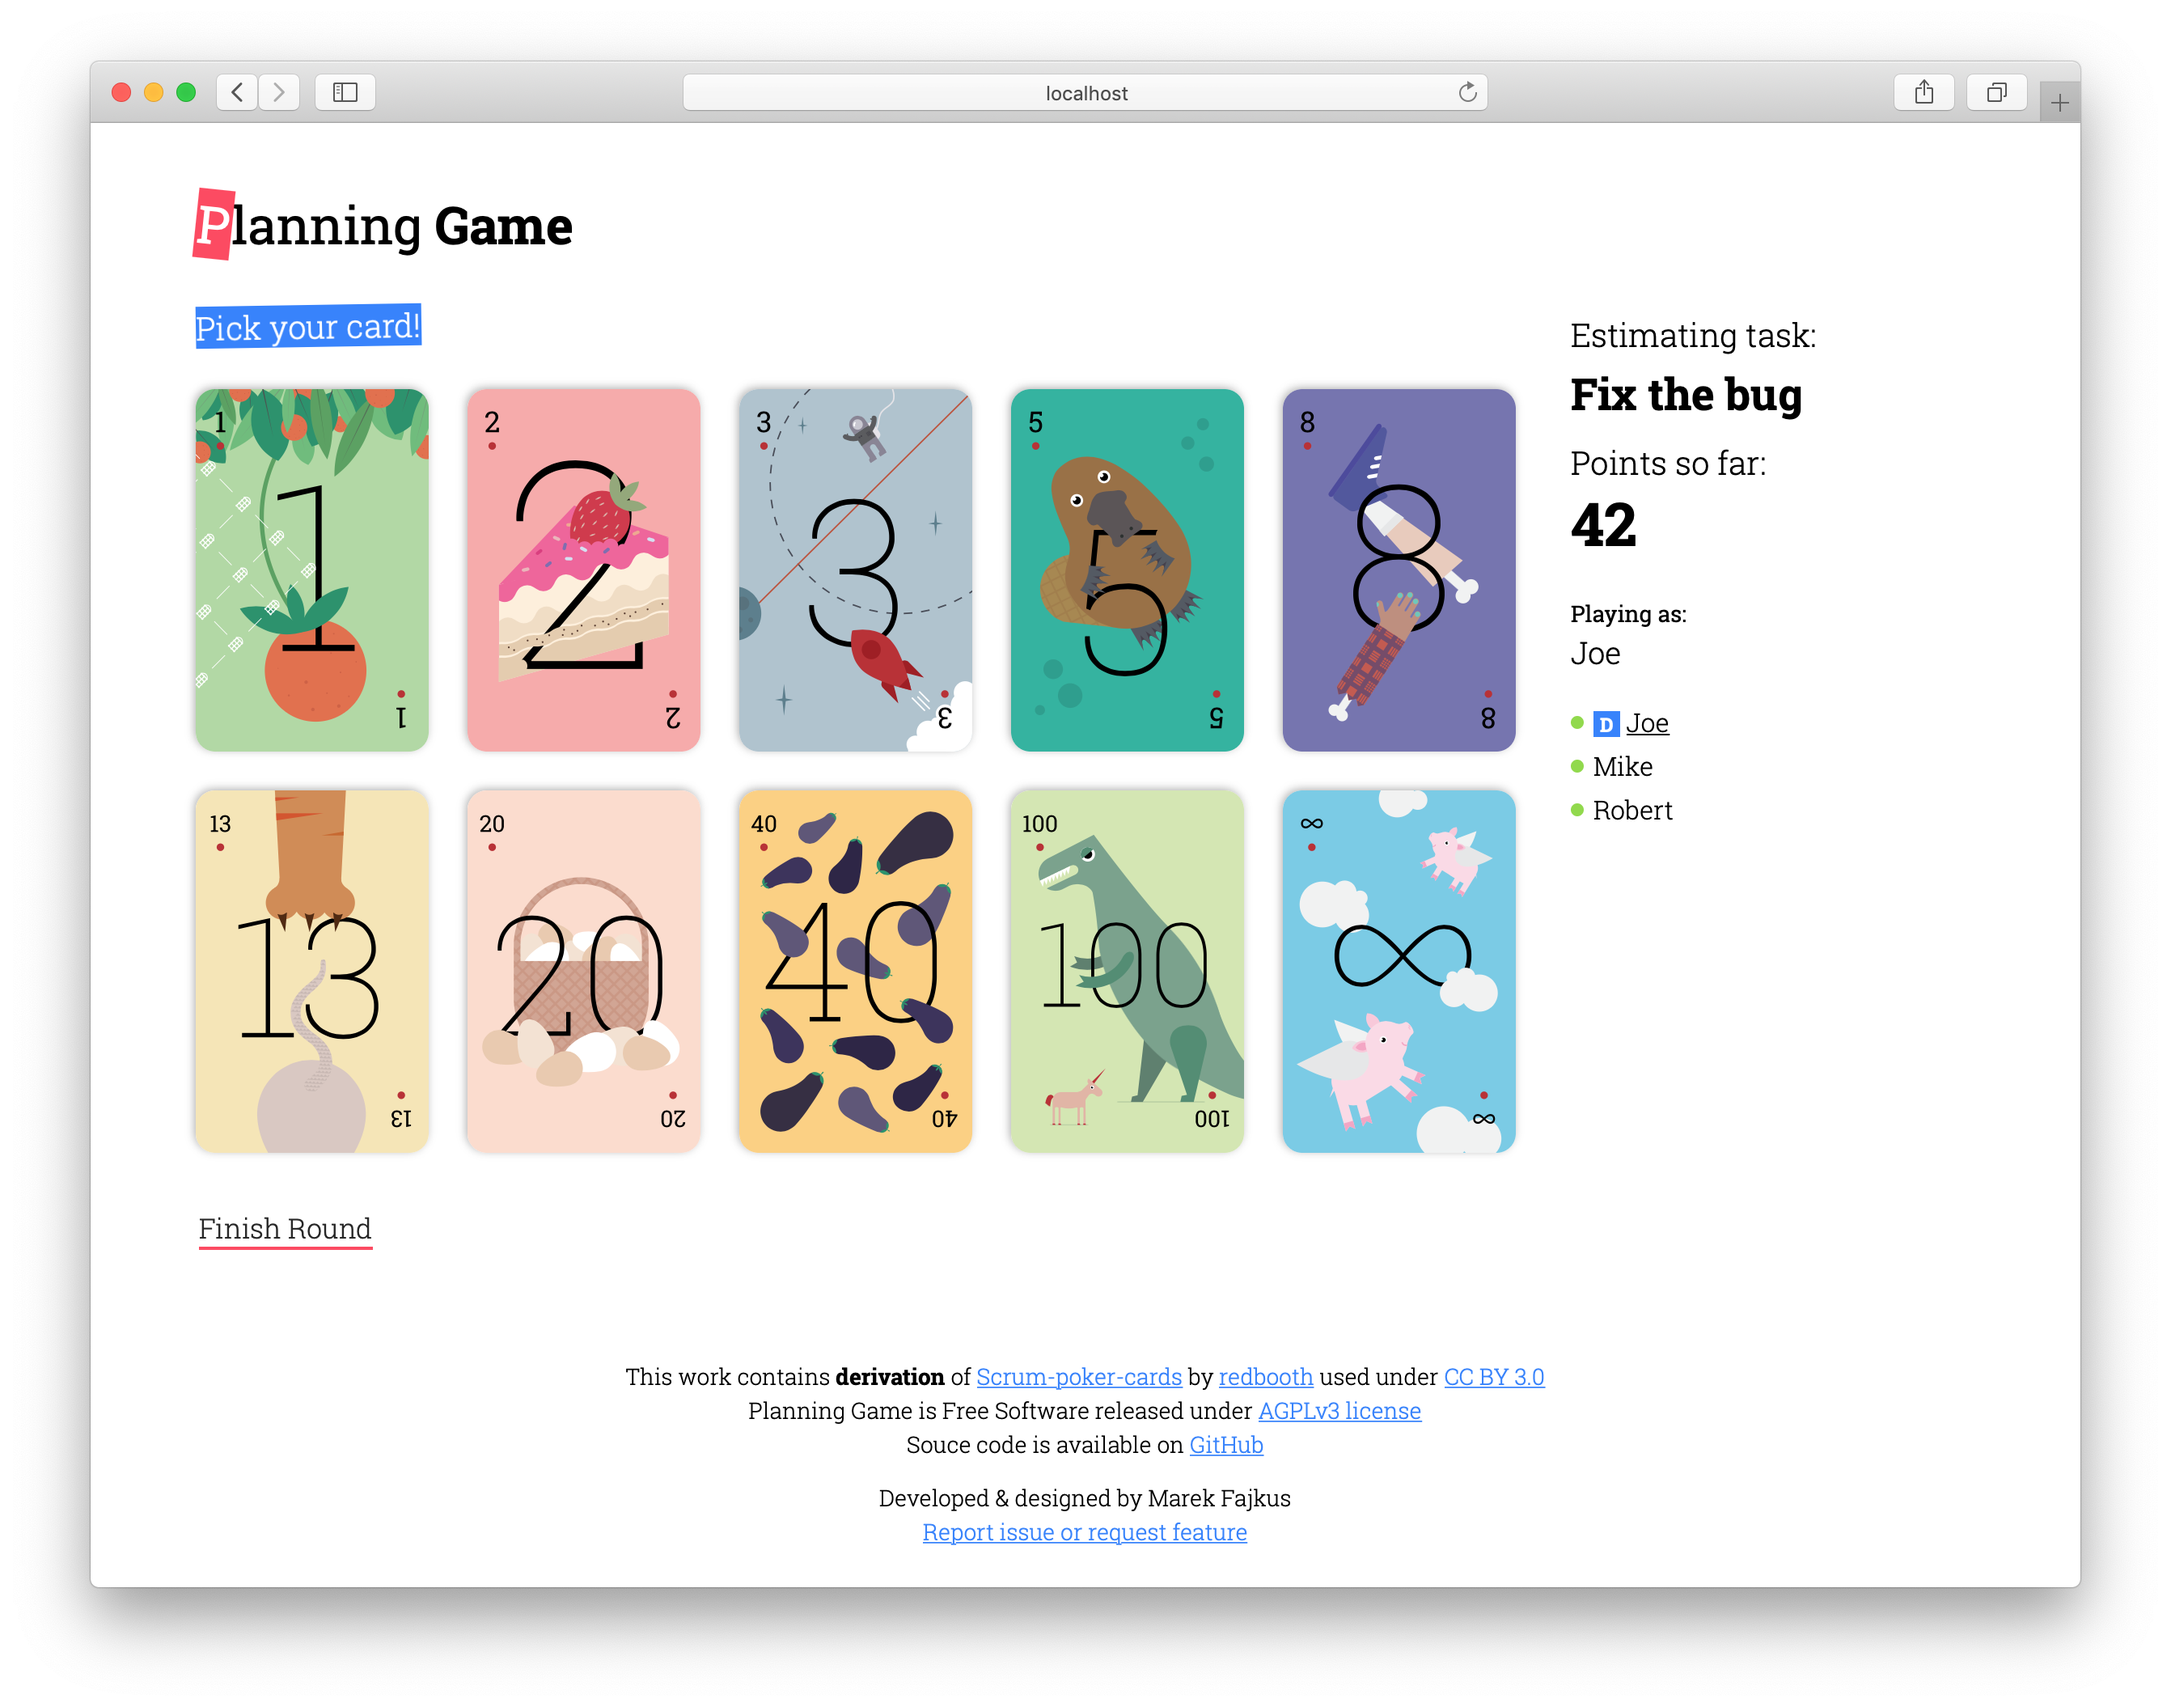
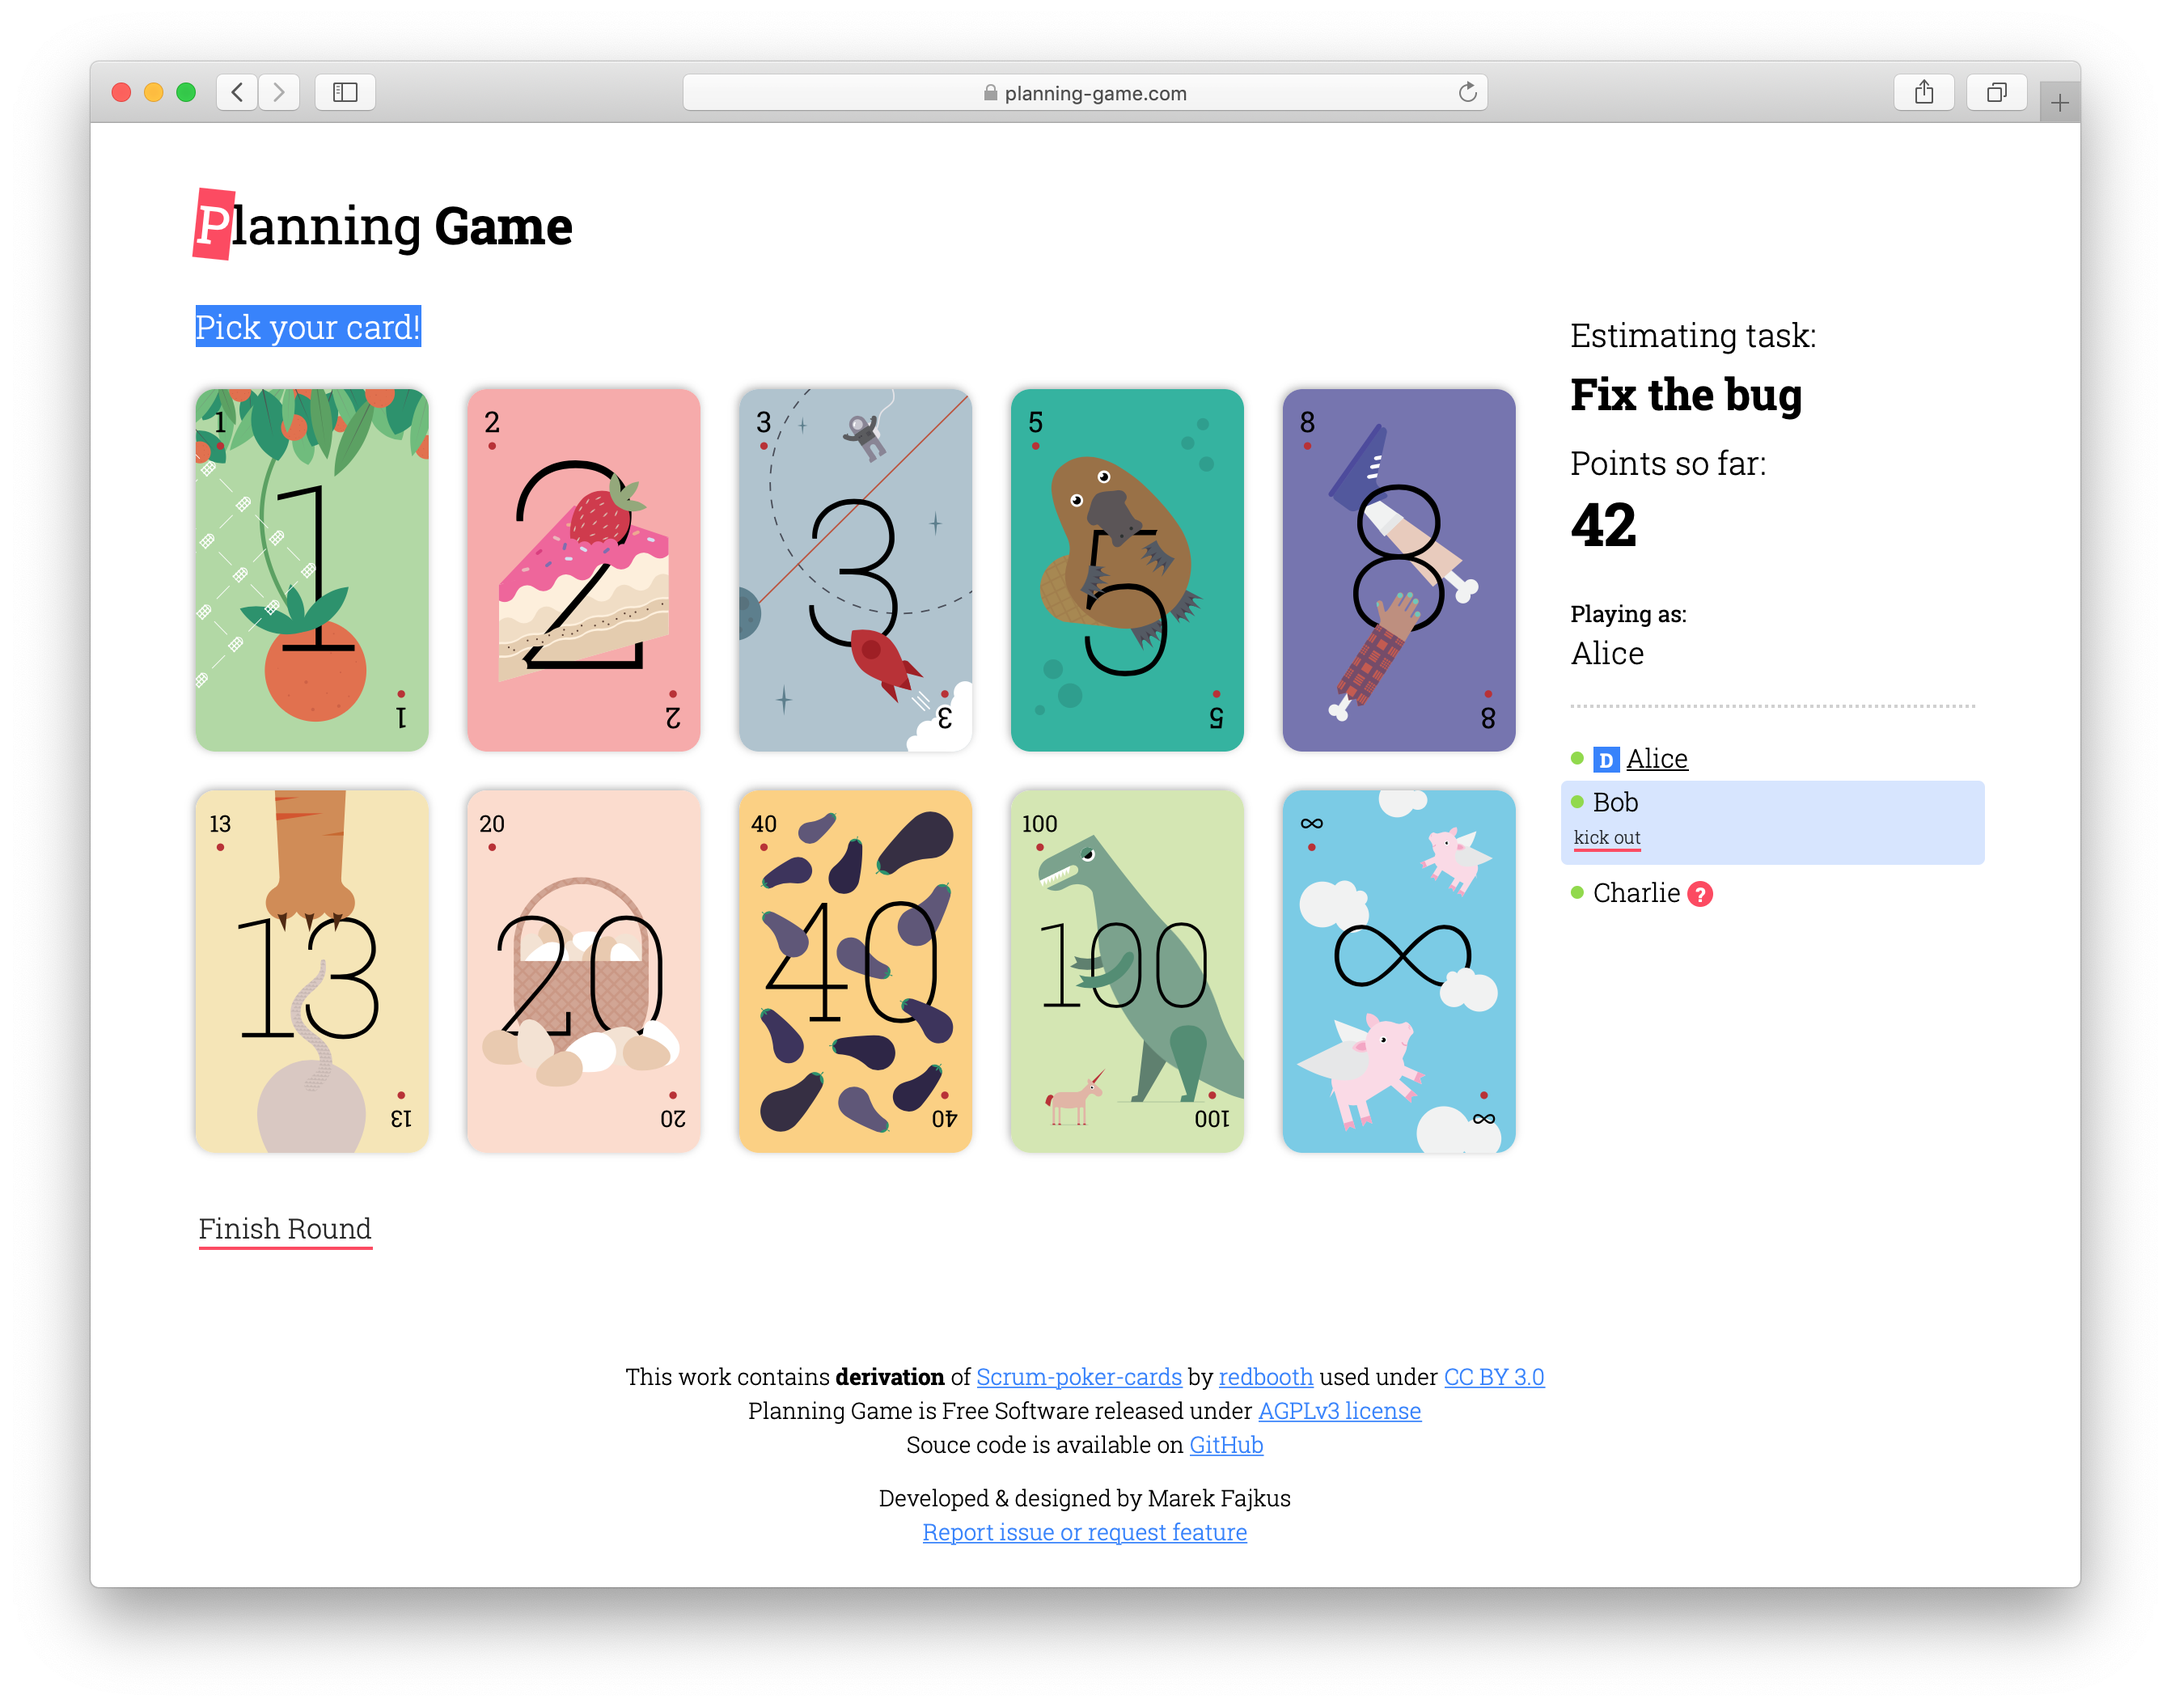
update screenshot (#54)

diff --git a/CHANGELOG.md b/CHANGELOG.md
@@ -1,5 +1,22 @@
 # Revision history for planning-game
 
+## 0.2.0 -- 2019-08-25
+
+* **BUGFIX:** Allow multiple connections for user (was disconnecting 2nd+ connection by mistake)
+* **FEATURE:** Player renaming
+* **CHORE:** Improve UI/UX for kicking out users and leaving the table
+* **CHORE:** Refactoring of players representation (both client and server)
+
+## 0.1.2 -- 2019-04-14
+
+* **BUGFIX:** Svg fonts to shapes
+* **FEATURE:** Non dealer user can leave the table
+* **FEATURE:** Dealer can kick out players
+
+## 0.1.1 -- 2019-03-31
+
+* **FEATURE:** Ability to restart current round
+
 ## 0.1.0 -- 2019-02-02
 
 * First version. Released on an unsuspecting world.

diff --git a/README.md b/README.md
@@ -16,7 +16,7 @@
 Simple voting poker implementation build with efficiency,
 flexibility and easy deployment in mind.
 Enabling remote teams to effectively identify complexities
-and specification weak points in collaborative way.
+and weak points of requirements in collaborative way.
 
 ## Quick Start
 
